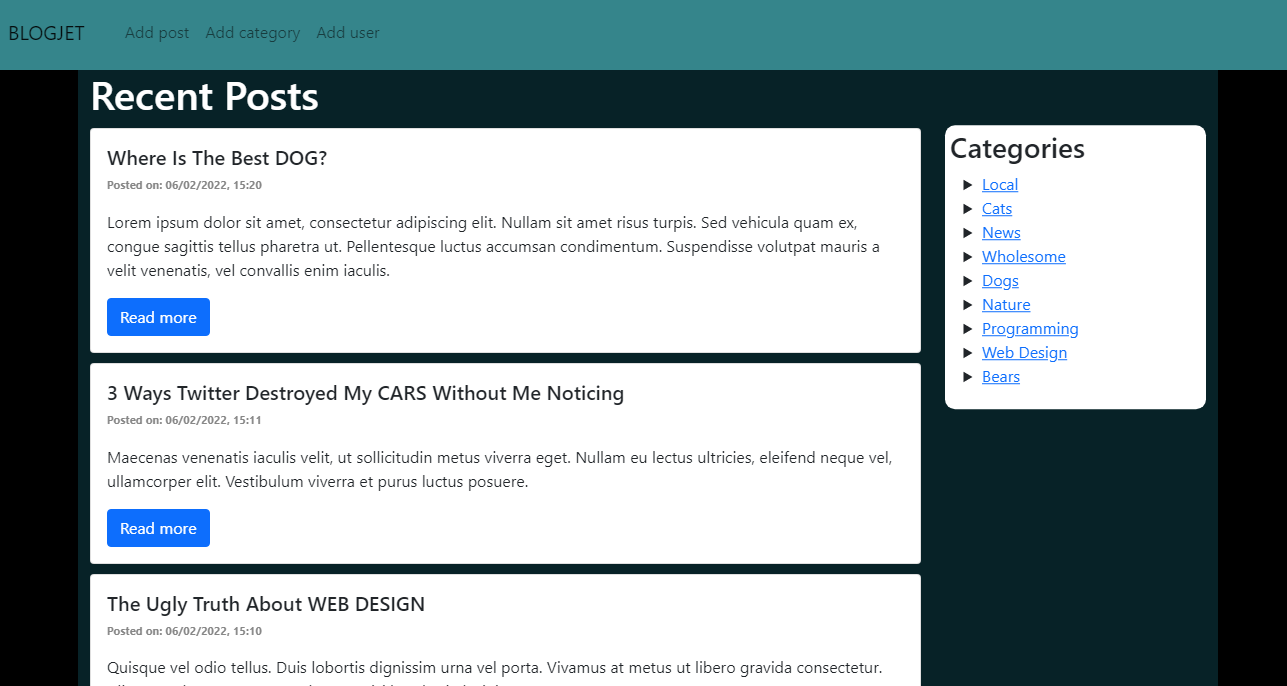
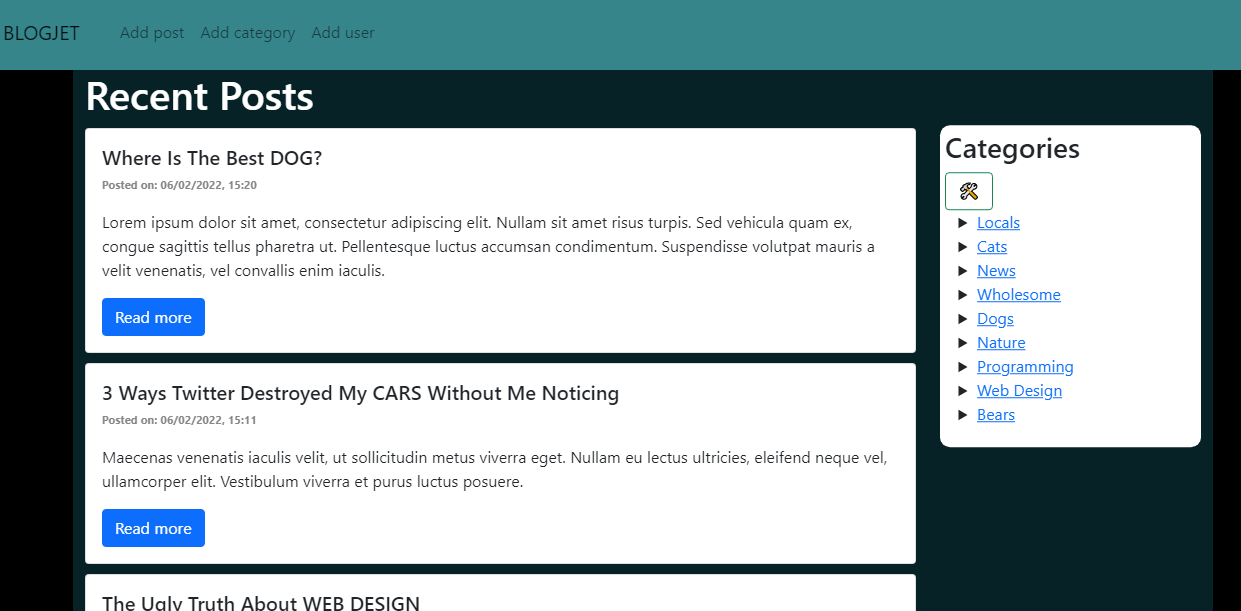
Finish CUD for categories.

Changed region(s): [[0.0, 0.0933, 1.0, 1.0], [0.0919, 0.0311, 0.3062, 0.0622], [0.0, 0.0311, 0.0612, 0.0622]]

diff --git a/app/public/js/category.cud.js b/app/public/js/category.cud.js
@@ -38,7 +38,8 @@ function addField() {
     }
     newField.id = "new-cat-" + i;
     newField.name = "NEW";
-    newField.placeholder = "New Category " + i;
+    newField.placeholder = "New Category " + i
+    newField.value = null;
     editLinksBlock.appendChild(newField);
 }
 
@@ -49,10 +50,15 @@ function saveChanges() {
     for(let i = 0; i < editFields.length; i++) {
         // Check if field has been modified
         if(editFields[i].name !== editFields[i].value) {
-            if(editFields[i].name === "NEW") {
-                createNewCategory(editFields[i].value);
+            if(editFields[i].value === "") {
+                if(editFields[i].name !== "NEW")
+                    deleteCategory(editFields[i].id)
             } else {
-                editCategory(editFields[i].id, editFields[i].value);
+                if(editFields[i].name === "NEW") {
+                    createNewCategory(editFields[i].value);
+                } else {
+                    editCategory(editFields[i].id, editFields[i].value);
+                }
             }
         }
     }
@@ -60,9 +66,50 @@ function saveChanges() {
     closeEditMenu();
 }
 
+function deleteCategory(categoryID) {
+
+    const url = "http://localhost:8080/api/category/" + categoryID;
+
+    fetch(url, {
+       method: "DELETE"
+    }).then(
+        (data) => {
+            if(data.status === 200) {
+                document.getElementById(categoryID).remove();
+            }
+        }
+    );
+
+}
+
 function createNewCategory(categoryName) {
 
-    console.log("Create new category: " + categoryName);
+    const url = "http://localhost:8080/api/category/";
+
+    fetch(url, {
+        method: "POST",
+        headers: {'Content-Type': 'application/json'},
+        body: JSON.stringify({
+            name: categoryName
+        })
+    }).then(
+        (data) => {
+            if(data.status === 200) {
+                data.json().then((newCategory) => {
+                    const catLinksBlock = document.getElementById("categories-links");
+                    const newCategoryItem = document.createElement("li");
+                    newCategoryItem.id = newCategory._id;
+
+                    const newAnchor = document.createElement("a");
+                    newAnchor.href = "/category?name=" + newCategory.name;
+                    newAnchor.innerText = newCategory.name;
+
+                    catLinksBlock.appendChild(newCategoryItem);
+                    newCategoryItem.appendChild(newAnchor);
+                });
+            }
+        }
+    );
 
     // Create virtually in DOM
 
@@ -82,6 +129,7 @@ function editCategory(categoryId, newName) {
         if(data.status === 200) {
             // Edit virtually in DOM
             document.getElementById(categoryId).firstChild.innerText = newName;
+            document.getElementById(categoryId).firstChild.href = "/category?name=" + newName;
         }
     });
 

diff --git a/app/controllers/category.controller.js b/app/controllers/category.controller.js
@@ -67,7 +67,6 @@ exports.findOne = (req, res) => {
 
 // Update a Category by the id in the request
 exports.update = (req, res) => {
-    console.log(req.body);
     if (!req.body) {
         return res.status(400).send({
             message: "Data to update can not be empty!"
